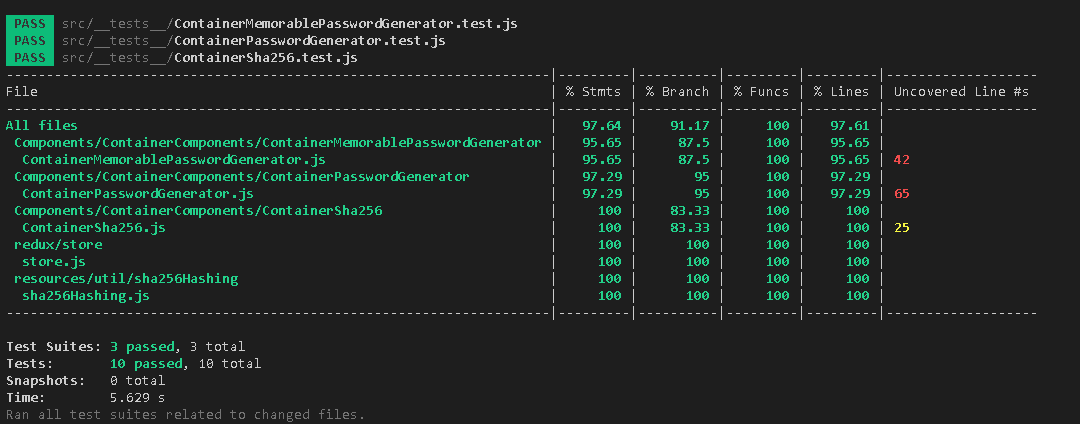
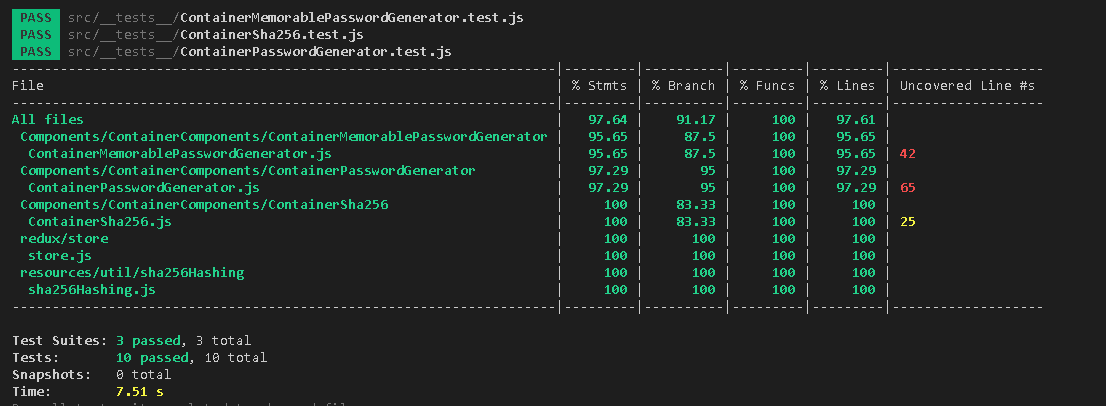
Tests - minor optimization

diff --git a/src/__tests__/ContainerPasswordGenerator.test.js b/src/__tests__/ContainerPasswordGenerator.test.js
@@ -43,95 +43,95 @@ describe('tests related with Container Password Generator', () => {
         expect(screen.queryByTestId('howMany').value).toEqual('1');
     });
 
-    it('should create a number of passwords after an onClick event', async () => {
+    it('should create a number of passwords after an onClick event', () => {
         // assert that results div starts with display = none
         expect(screen.queryByTestId('results').style.display).toEqual('none');
 
         // fire click on submit button to create password (1 password since initialState.howMany = 1), and change results div style.display to 'flex'
-        await waitFor(() => fireEvent.click(screen.queryByTestId('submitButton')));
+        fireEvent.click(screen.queryByTestId('submitButton'));
         let passwordGeneratorState = store.getState().passwordGenerator;
         
-        await waitFor(() => expect(screen.queryByTestId('results').style.display).toEqual('flex'));
-        await waitFor(() => expect(passwordGeneratorState.passwords.length).toEqual(passwordGeneratorState.howMany));
+        expect(screen.queryByTestId('results').style.display).toEqual('flex');
+        expect(passwordGeneratorState.passwords.length).toEqual(passwordGeneratorState.howMany);
     });
 
-    it('should handle changes made by user inputs into the store state', async () => {
+    it('should handle changes made by user inputs into the store state', () => {
         // number chars number input
-        await waitFor(() => fireEvent.change(screen.queryByTestId('numberChars'), { target: { value: 5 } } ));
+        fireEvent.change(screen.queryByTestId('numberChars'), { target: { value: 5 } } );
         let passwordGeneratorState = store.getState().passwordGenerator;
-        await waitFor(() => expect(passwordGeneratorState.numberChars).toEqual('5'));
+        expect(passwordGeneratorState.numberChars).toEqual('5');
 
-        await waitFor(() => fireEvent.change(screen.queryByTestId('numberChars'), { target: { value: 10 } } ));
+        fireEvent.change(screen.queryByTestId('numberChars'), { target: { value: 10 } } );
         passwordGeneratorState = store.getState().passwordGenerator;
-        await waitFor(() => expect(passwordGeneratorState.numberChars).toEqual('10'));
+        expect(passwordGeneratorState.numberChars).toEqual('10');
         
         // lowercase checkbox
-        await waitFor(() => fireEvent.click(screen.queryByTestId('lowercase')));
+        fireEvent.click(screen.queryByTestId('lowercase'));
         passwordGeneratorState = store.getState().passwordGenerator;
-        await waitFor(() => expect(passwordGeneratorState.lowercase).toEqual(false));
+        expect(passwordGeneratorState.lowercase).toEqual(false);
 
-        await waitFor(() => fireEvent.click(screen.queryByTestId('lowercase')));
+        fireEvent.click(screen.queryByTestId('lowercase'));
         passwordGeneratorState = store.getState().passwordGenerator;
-        await waitFor(() => expect(passwordGeneratorState.lowercase).toEqual(true));
+        expect(passwordGeneratorState.lowercase).toEqual(true);
 
         // uppercase checkbox
-        await waitFor(() => fireEvent.click(screen.queryByTestId('uppercase')));
+        fireEvent.click(screen.queryByTestId('uppercase'));
         passwordGeneratorState = store.getState().passwordGenerator;
-        await waitFor(() => expect(passwordGeneratorState.uppercase).toEqual(false));
+        expect(passwordGeneratorState.uppercase).toEqual(false);
 
-        await waitFor(() => fireEvent.click(screen.queryByTestId('uppercase')));
+        fireEvent.click(screen.queryByTestId('uppercase'));
         passwordGeneratorState = store.getState().passwordGenerator;
-        await waitFor(() => expect(passwordGeneratorState.uppercase).toEqual(true));
+        expect(passwordGeneratorState.uppercase).toEqual(true);
 
         // includeNumbers checkbox
-        await waitFor(() => fireEvent.click(screen.queryByTestId('includeNumbers')));
+        fireEvent.click(screen.queryByTestId('includeNumbers'));
         passwordGeneratorState = store.getState().passwordGenerator;
-        await waitFor(() => expect(passwordGeneratorState.includeNumbers).toEqual(false));
+        expect(passwordGeneratorState.includeNumbers).toEqual(false);
 
-        await waitFor(() => fireEvent.click(screen.queryByTestId('includeNumbers')));
+        fireEvent.click(screen.queryByTestId('includeNumbers'));
         passwordGeneratorState = store.getState().passwordGenerator;
-        await waitFor(() => expect(passwordGeneratorState.includeNumbers).toEqual(true));
+        expect(passwordGeneratorState.includeNumbers).toEqual(true);
 
         // includeSymbols checkbox
-        await waitFor(() => fireEvent.click(screen.queryByTestId('includeSymbols')));
+        fireEvent.click(screen.queryByTestId('includeSymbols'));
         passwordGeneratorState = store.getState().passwordGenerator;
-        await waitFor(() => expect(passwordGeneratorState.includeSymbols).toEqual(false));
+        expect(passwordGeneratorState.includeSymbols).toEqual(false);
 
-        await waitFor(() => fireEvent.click(screen.queryByTestId('includeSymbols')));
+        fireEvent.click(screen.queryByTestId('includeSymbols'));
         passwordGeneratorState = store.getState().passwordGenerator;
-        await waitFor(() => expect(passwordGeneratorState.includeSymbols).toEqual(true));
+        expect(passwordGeneratorState.includeSymbols).toEqual(true);
 
         // chars to exclude text input
-        await waitFor(() => fireEvent.change(screen.queryByTestId('charsToExclude'), { target: { value: '_/+' } }));
+        fireEvent.change(screen.queryByTestId('charsToExclude'), { target: { value: '_/+' } });
         passwordGeneratorState = store.getState().passwordGenerator;
-        await waitFor(() => expect(passwordGeneratorState.charsToExclude).toEqual('_/+'));
+        expect(passwordGeneratorState.charsToExclude).toEqual('_/+');
 
-        await waitFor(() => fireEvent.change(screen.queryByTestId('charsToExclude'), { target: { value: '' } }));
+        fireEvent.change(screen.queryByTestId('charsToExclude'), { target: { value: '' } });
         passwordGeneratorState = store.getState().passwordGenerator;
-        await waitFor(() => expect(passwordGeneratorState.charsToExclude).toEqual(''));
+        expect(passwordGeneratorState.charsToExclude).toEqual('');
 
         // how many passwords select input
-        await waitFor(() => fireEvent.change(screen.queryByTestId('howMany'), { target: { value: 10 } }));
+        fireEvent.change(screen.queryByTestId('howMany'), { target: { value: 10 } });
         passwordGeneratorState = store.getState().passwordGenerator;
-        await waitFor(() => expect(passwordGeneratorState.howMany).toEqual('10'));
+        expect(passwordGeneratorState.howMany).toEqual('10');
 
-        await waitFor(() => fireEvent.change(screen.queryByTestId('howMany'), { target: { value: 1 } }));
+        fireEvent.change(screen.queryByTestId('howMany'), { target: { value: 1 } });
         passwordGeneratorState = store.getState().passwordGenerator;
-        await waitFor(() => expect(passwordGeneratorState.howMany).toEqual('1'));
+        expect(passwordGeneratorState.howMany).toEqual('1');
     });
 
     it('should turn all checkboxes back true when user changes all to false', async () => {
         // lowercase checkbox
-        await waitFor(() => fireEvent.click(screen.queryByTestId('lowercase')));
+        fireEvent.click(screen.queryByTestId('lowercase'));
 
         // uppercase checkbox
-        await waitFor(() => fireEvent.click(screen.queryByTestId('uppercase')));
+        fireEvent.click(screen.queryByTestId('uppercase'));
 
         // includeNumbers checkbox
-        await waitFor(() => fireEvent.click(screen.queryByTestId('includeNumbers')));
+        fireEvent.click(screen.queryByTestId('includeNumbers'));
 
         // includeSymbols checkbox
-        await waitFor(() => fireEvent.click(screen.queryByTestId('includeSymbols')));
+        fireEvent.click(screen.queryByTestId('includeSymbols'));
 
         let passwordGeneratorState = store.getState().passwordGenerator;
 
@@ -142,7 +142,7 @@ describe('tests related with Container Password Generator', () => {
     });
 
     it('should create a password considering the settings', async () => {
-        await waitFor(() => fireEvent.click(screen.queryByTestId('submitButton')));
+        fireEvent.click(screen.queryByTestId('submitButton'));
 
         let passwordGeneratorState = store.getState().passwordGenerator;
         await waitFor(() => expect(passwordGeneratorState.passwords.length).toEqual(1));
@@ -150,14 +150,14 @@ describe('tests related with Container Password Generator', () => {
         const password = passwordGeneratorState.passwords;
         
         let validPassword = true;
-        const validatePassword = async () => {
+        const validatePassword = () => {
             let pattern = /[\S_]{10}/g;
             if (!pattern.test(password)) {
                 validPassword = false;
             };
         };
 
-        await waitFor(() => validatePassword());
-        await waitFor(() => expect(validPassword).toEqual(true));
+        validatePassword();
+        expect(validPassword).toEqual(true);
     });
 });

diff --git a/src/__tests__/ContainerMemorablePasswordGenerator.test.js b/src/__tests__/ContainerMemorablePasswordGenerator.test.js
@@ -43,7 +43,7 @@ describe('tests related with Container Memorable Password Generator', () => {
         expect(results.style.display).toEqual('none');
         
         // fire click on submit button to create memorable password, and change results div style.display to 'flex'
-        await waitFor(() => fireEvent.click(screen.getByTestId('submitButton')));
+        fireEvent.click(screen.getByTestId('submitButton'));
         
         results = await screen.findByTestId('results');
         await waitFor(() => expect(results.style.display).toEqual('flex'));
@@ -52,32 +52,32 @@ describe('tests related with Container Memorable Password Generator', () => {
         await waitFor(() => expect(memorablePasswordGeneratorState.memorablePassword.length).toEqual(1));
     });
 
-    it('should handle changes made by user inputs into the store state', async () => {
+    it('should handle changes made by user inputs into the store state', () => {
         // number words number input
-        await waitFor(() => fireEvent.change(screen.queryByTestId('numberWords'), { target: { value: 5 } } ));
+        fireEvent.change(screen.queryByTestId('numberWords'), { target: { value: 5 } } );
         let memorablePasswordGeneratorState = store.getState().memorablePassword;
-        await waitFor(() => expect(memorablePasswordGeneratorState.numberWords).toEqual('5'));
+        expect(memorablePasswordGeneratorState.numberWords).toEqual('5');
 
-        await waitFor(() => fireEvent.change(screen.queryByTestId('numberWords'), { target: { value: 3 } } ));
+        fireEvent.change(screen.queryByTestId('numberWords'), { target: { value: 3 } } );
         memorablePasswordGeneratorState = store.getState().memorablePassword;
-        await waitFor(() => expect(memorablePasswordGeneratorState.numberWords).toEqual('3'));
+        expect(memorablePasswordGeneratorState.numberWords).toEqual('3');
 
         // separator text input
-        await waitFor(() => fireEvent.change(screen.queryByTestId('separator'), { target: { value: '_/' } }));
+        fireEvent.change(screen.queryByTestId('separator'), { target: { value: '_/' } });
         memorablePasswordGeneratorState = store.getState().memorablePassword;
-        await waitFor(() => expect(memorablePasswordGeneratorState.separator).toEqual('_/'));
+        expect(memorablePasswordGeneratorState.separator).toEqual('_/');
 
-        await waitFor(() => fireEvent.change(screen.queryByTestId('separator'), { target: { value: '' } }));
+        fireEvent.change(screen.queryByTestId('separator'), { target: { value: '' } });
         memorablePasswordGeneratorState = store.getState().memorablePassword;
-        await waitFor(() => expect(memorablePasswordGeneratorState.separator).toEqual(''));
+        expect(memorablePasswordGeneratorState.separator).toEqual('');
 
         // includeNumbers checkbox input
-        await waitFor(() => fireEvent.click(screen.queryByTestId('includeNumbers')));
+        fireEvent.click(screen.queryByTestId('includeNumbers'));
         memorablePasswordGeneratorState = store.getState().memorablePassword;
-        await waitFor(() => expect(memorablePasswordGeneratorState.includeNumbers).toEqual(false));
+        expect(memorablePasswordGeneratorState.includeNumbers).toEqual(false);
 
-        await waitFor(() => fireEvent.click(screen.queryByTestId('includeNumbers')));
+        fireEvent.click(screen.queryByTestId('includeNumbers'));
         memorablePasswordGeneratorState = store.getState().memorablePassword;
-        await waitFor(() => expect(memorablePasswordGeneratorState.includeNumbers).toEqual(true));
+        expect(memorablePasswordGeneratorState.includeNumbers).toEqual(true);
     });
 });

diff --git a/src/__tests__/ContainerSha256.test.js b/src/__tests__/ContainerSha256.test.js
@@ -39,13 +39,14 @@ describe('tests related with Container SHA-256 Hashing', () => {
         await waitFor(() => expect(screen.getByTestId('textToBeHashed')).toHaveValue('test'));
 
         let sha256State = store.getState().sha256Hashing;
-        await waitFor(() => expect(sha256State.textToBeHashed).toEqual('test'));
+        expect(sha256State.textToBeHashed).toEqual('test');
         
+        // for this work, check sha256Hashing.js file at /util/sha256Hashing
         // verify that state now stores hashed text
[2 lines of base64/hex data omitted]
 
         // fire click on submit button
-        await waitFor(() => userEvent.click(screen.getByTestId('submitButton')));
+        userEvent.click(screen.getByTestId('submitButton'));
         
         // verify results are now showing
         await waitFor(() => expect(screen.getByTestId('results').style.display).toEqual('flex'));
